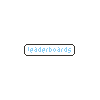
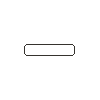
df

Changed region(s): [[0.27, 0.45, 0.72, 0.54]]

diff --git a/Classes/WelcoScene.cpp b/Classes/WelcoScene.cpp
@@ -40,7 +40,6 @@ bool WelcoScene::init()
 
     scheduleUpdate();
 
-    ACSoundManage::s()->play(ACSoundManage::SN_M_WELCO);
     return true;
 }
 
@@ -173,10 +172,10 @@ void WelcoScene::initButtonsThings()
         auto node = PixelNode::create();
         node->setCameraMask(_mainCamera->getCameraMask());
         node->setPosition3D({1.0,-0.9,0});
-        node->configSopx("sopx/welco/beat.png.sopx");
+        node->configSopx("sopx/welco/arrow.png.sopx");
         hub->addChild(node);
         node->setOpacity(0);
-        node->setScale(1.5);
+        node->setScale(1.1,1.5);
         node->runAction(Sequence::create(
                                          FadeIn::create(1.5f),
                                          DelayTime::create(0.3),
@@ -196,10 +195,10 @@ void WelcoScene::initButtonsThings()
         auto node = PixelNode::create();
         node->setCameraMask(_mainCamera->getCameraMask());
         node->setPosition3D({0.7,-0.6,0});
-        node->configSopx("sopx/welco/quest.png.sopx");
+        node->configSopx("sopx/welco/rush.png.sopx");
         hub->addChild(node);
         node->setOpacity(0);
-        node->setScale(1.5);
+        node->setScale(1.1,1.5);
         node->runAction(Sequence::create(
                                          FadeIn::create(1.5f),
                                          DelayTime::create(0.3),
@@ -225,7 +224,7 @@ void WelcoScene::initButtonsThings()
         node->setScale(0.8);
         node->runAction(Sequence::create(
                                          DelayTime::create(1.5f),
-                                         MoveTo::create(0.3, {1,1,0}),
+                                         MoveTo::create(0.3, {5,1,0}),
                                          DelayTime::create(shake_time*6+0.5),
                                          DelayTime::create(stay_time),
 
@@ -250,7 +249,10 @@ void WelcoScene::initButtonsThings()
                                          Show::create(),
                                          Spawn::create(
                                                        FadeIn::create(0.3), NULL),
+                                         DelayTime::create(1.f),
+                                         ScaleTo::create(0.15, 0.5), ScaleTo::create(0.15, 0.4),
                                          NULL));
+        _pxPlay = node;
     }
 
     {
@@ -271,7 +273,30 @@ void WelcoScene::initButtonsThings()
                                          Spawn::create(
                                                        FadeIn::create(0.3), NULL),
                                          NULL));
+        _pxLeaderboard = node;
     }
+
+
+    {
+        auto node = PixelTextNode::create();
+        node->setCameraMask(_mainCamera->getCameraMask());
+        node->setScale(0.27);
+        node->setPosition3D({0.2,-19,0});
+        node->configText("leaderboard",1);
+        node->configMixColor({1.f, 200.f/255.f, 51.f/255.f,1.f});
+        hub->addChild(node);
+        node->setVisible(false);
+        node->runAction(Sequence::create(
+                                         DelayTime::create(1.5f),
+                                         DelayTime::create(0.3),
+                                         DelayTime::create(shake_time*6+0.5),
+                                         DelayTime::create(stay_time+move_time+0.3+0.2),
+                                         Show::create(),
+                                         Spawn::create(
+                                                       Show::create(), NULL),
+                                         NULL));
+    }
+
     {
         auto node = PixelNode::create();
         node->setCameraMask(_mainCamera->getCameraMask());
@@ -289,6 +314,28 @@ void WelcoScene::initButtonsThings()
                                          Show::create(),
                                          Spawn::create(
                                                        FadeIn::create(0.3), NULL),
+                                         NULL));
+        _pxCredits = node;
+
+    }
+
+    {
+        auto node = PixelTextNode::create();
+        node->setCameraMask(_mainCamera->getCameraMask());
+        node->setScale(0.27);
+        node->setPosition3D({0.4,-26,0});
+        node->configText("credits",1);
+        node->configMixColor({1.f, 200.f/255.f, 51.f/255.f,1.f});
+        hub->addChild(node);
+        node->setVisible(false);
+        node->runAction(Sequence::create(
+                                         DelayTime::create(1.5f),
+                                         DelayTime::create(0.3),
+                                         DelayTime::create(shake_time*6+0.5),
+                                         DelayTime::create(stay_time+move_time+0.3+0.3+0.3),
+                                         Show::create(),
+                                         Spawn::create(
+                                                       Show::create(), NULL),
                                          NULL));
     }
 
@@ -376,6 +423,17 @@ void WelcoScene::initButtonsThings()
                                          NULL));
         _pxWeibo = node;
     }
+
+
+
+
+    _mainCamera->scheduleOnce([this](float dt){
+        ACSoundManage::s()->play(ACSoundManage::SN_M_WELCO);
+    }, 5.f, "sdfsdf}3");
+
+    _mainCamera->scheduleOnce([this](float dt){
+        ACSoundManage::s()->play(ACSoundManage::SN_ARROW_NORMAL_HIT);
+    }, 2.f, "sdfsdf}dsf33");
 }
 
 void WelcoScene::initExtraButtons()
@@ -405,16 +463,43 @@ void WelcoScene::initTouchThings()
     };
 
     listener->onTouchEnded = [this](Touch* touch, Event* event){
+        bool sfx = false;
         if (_pxSoundSwitch->fetchScreenRect(5, _mainCamera).containsPoint(touch->getLocation())) {
             CCLOG("sound switch");
             ACSoundManage::s()->soundSwitch();
 
             _pxSoundSwitch->configSopx(ACSoundManage::s()->getSoundState() ? "sopx/welco/sound.png.sopx" : "sopx/welco/sound_x.png.sopx");
-            
+            sfx = true;
         } else if (_pxMusicSwitch->fetchScreenRect(5, _mainCamera).containsPoint(touch->getLocation())) {
             CCLOG("musci switch");
             ACSoundManage::s()->musicSwitch();
             _pxMusicSwitch->configSopx(ACSoundManage::s()->getMusicState() ? "sopx/welco/music.png.sopx":"sopx/welco/music_x.png.sopx");
+            sfx = true;
+
+        } else if (_pxTwitter->fetchScreenRect(5, _mainCamera).containsPoint(touch->getLocation())) {
+
+            Application::getInstance()->openURL("https://twitter.com/arisecbf");
+            sfx = true;
+
+        } else if (_pxWeibo->fetchScreenRect(5, _mainCamera).containsPoint(touch->getLocation())) {
+            Application::getInstance()->openURL("http://weibo.com/u/1750764372");
+            sfx = true;
+
+        } else if (_pxPlay->fetchScreenRect(5, _mainCamera).containsPoint(touch->getLocation())) {
+            Director::getInstance()->replaceScene(LoadingScene::create());
+            sfx = true;
+        } else if (_pxLeaderboard->fetchScreenRect(5, _mainCamera).containsPoint(touch->getLocation()) ) {
+            //TODO open leaderboards
+            sfx = true;
+
+        } else if (_pxCredits->fetchScreenRect(5, _mainCamera).containsPoint(touch->getLocation()) ){
+            //todo credits
+            sfx = true;
+
+        }
+
+        if (sfx) {
+            ACSoundManage::s()->play(ACSoundManage::SN_CLICK);
         }
 
     };

diff --git a/Classes/AppDelegate.cpp b/Classes/AppDelegate.cpp
@@ -3,6 +3,8 @@
 #include "ProgressInfo.hpp"
 #include "StoryInfo.hpp"
 #include "ACSoundManage.hpp"
+#include "PixelDataCache.hpp"
+
 USING_NS_CC;
 
 AppDelegate::AppDelegate() {
@@ -51,6 +53,8 @@ bool AppDelegate::applicationDidFinishLaunching() {
     StoryInfo::s()->loadConfig(); // 加载关卡配置数据
 
     ACSoundManage::s()->load(); // preload sounds
+
+    PixelDataCache::s()->preloadChars();
 
     Director::getInstance()->setClearColor(Color4F::WHITE);
 

diff --git a/Classes/QuestScene.cpp b/Classes/QuestScene.cpp
@@ -21,9 +21,6 @@ bool QuestScene::init()
     StoryInfo::s()->loadConfig();
     HeroGraphicAnimationDef::loadConfig();
     RivalGraphicAnimationDef::loadConfig();
-    PixelDataCache::s()->preload("beats/a.png.sopx");
-    PixelDataCache::s()->preload("beats/b.png.sopx");
-    PixelDataCache::s()->preloadChars();
 
     /*
     addCommonBtn({0.9,0.5}, "reset", [](){Director::getInstance()->replaceScene(QuestScene::create());});

diff --git a/Classes/ACSoundManage.cpp b/Classes/ACSoundManage.cpp
@@ -32,6 +32,7 @@ void ACSoundManage::load()
     _effectsMap[SN_TORNADO] = "tornado.wav";
 //    _effectsMap[SN_WIND_CHANGE] = "wind_change.wav";
     _effectsMap[SN_KEY] = "key.mp3";
+    _effectsMap[SN_CLICK] = "click.mp3";
 
     _musicMap[SN_M_0] = "m_0.mp3";
     _musicMap[SN_M_1] = "m_1.mp3";

diff --git a/Classes/ACSoundManage.hpp b/Classes/ACSoundManage.hpp
@@ -36,6 +36,7 @@ public:
         SN_M_3,
         SN_M_WELCO,
         SN_M_CREDITS,
+        SN_CLICK,
     };
     static ACSoundManage* s() { return &_instance; }
 
